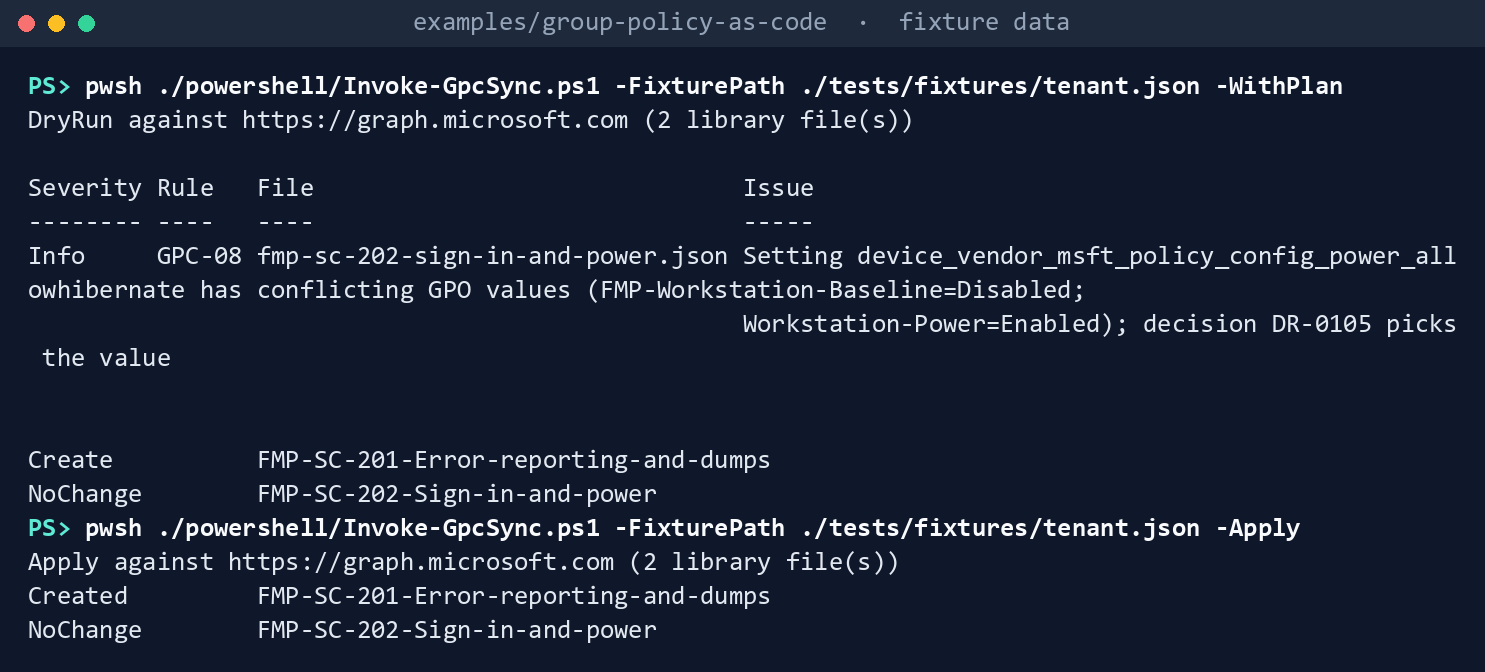
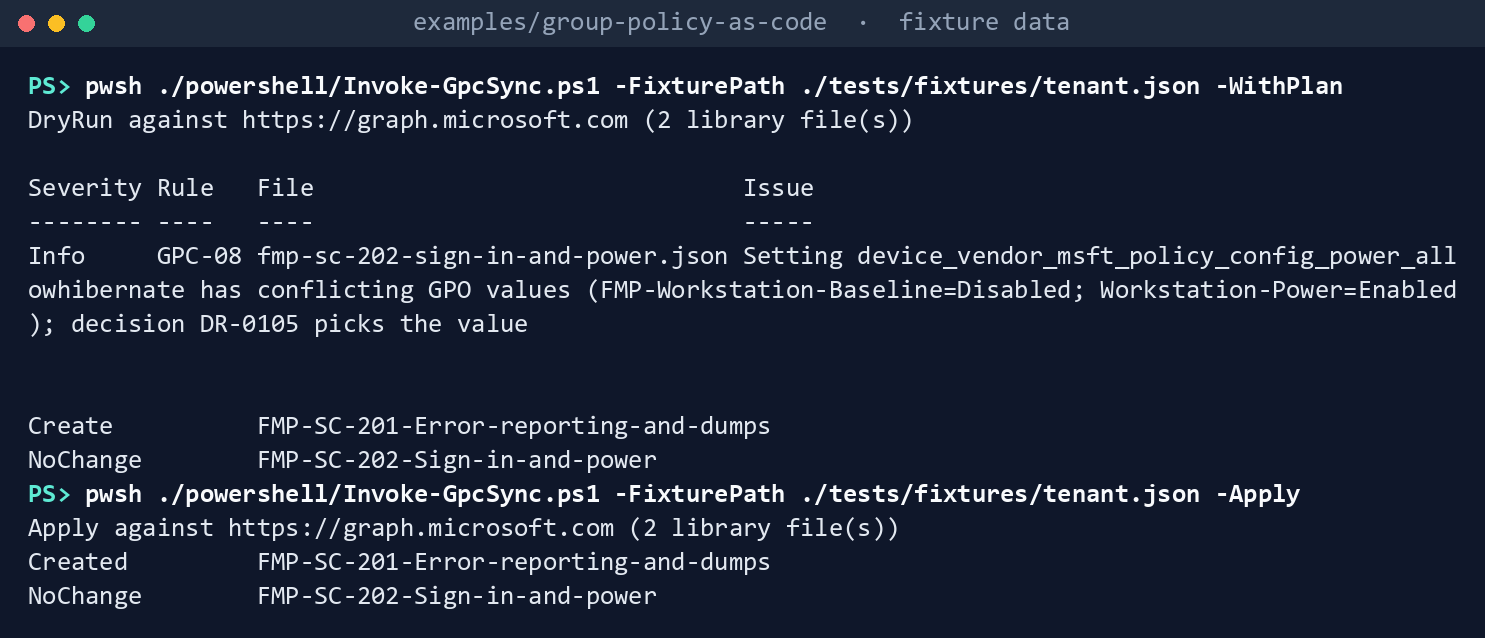
Book 19 captures: Python tracebacks as every version prints them; the sync record's findings table at full width
Newer Python adds the python -c source line and ~~~^^^ markers; CI's doesn't. Invoke-GpcSync
wrapped its findings table at 200 columns, which PowerShell measures differently on Windows and Linux.

diff --git a/scripts/kit_captures.py b/scripts/kit_captures.py
@@ -152,6 +152,10 @@ def clean(out: str, cwd: Path, root: Path) -> str:
     # Pester puts a file's timing on the file's line, or on a line of its own.
     out = re.sub(r"^(\[[+-]\] [^\n]*?) [\d.]+m?s \([\d.]+m?s\|[\d.]+m?s\)$", r"\1", out, flags=re.M)
     out = re.sub(r"^ *[\d.]+m?s \([\d.]+m?s\|[\d.]+m?s\)\n", "", out, flags=re.M)
+    # A Python traceback as every version prints it: newer ones add the `python -c` source line and
+    # ~~~^^^ markers under each call.
+    out = re.sub(r'^(  File "<string>", line \d+, in <module>\n)    [^\n]*\n', r"\1", out, flags=re.M)
+    out = re.sub(r"^ *[~^]+ *\n", "", out, flags=re.M)
     return "\n".join(l.rstrip() for l in out.split("\n")).strip("\n")
 
 
